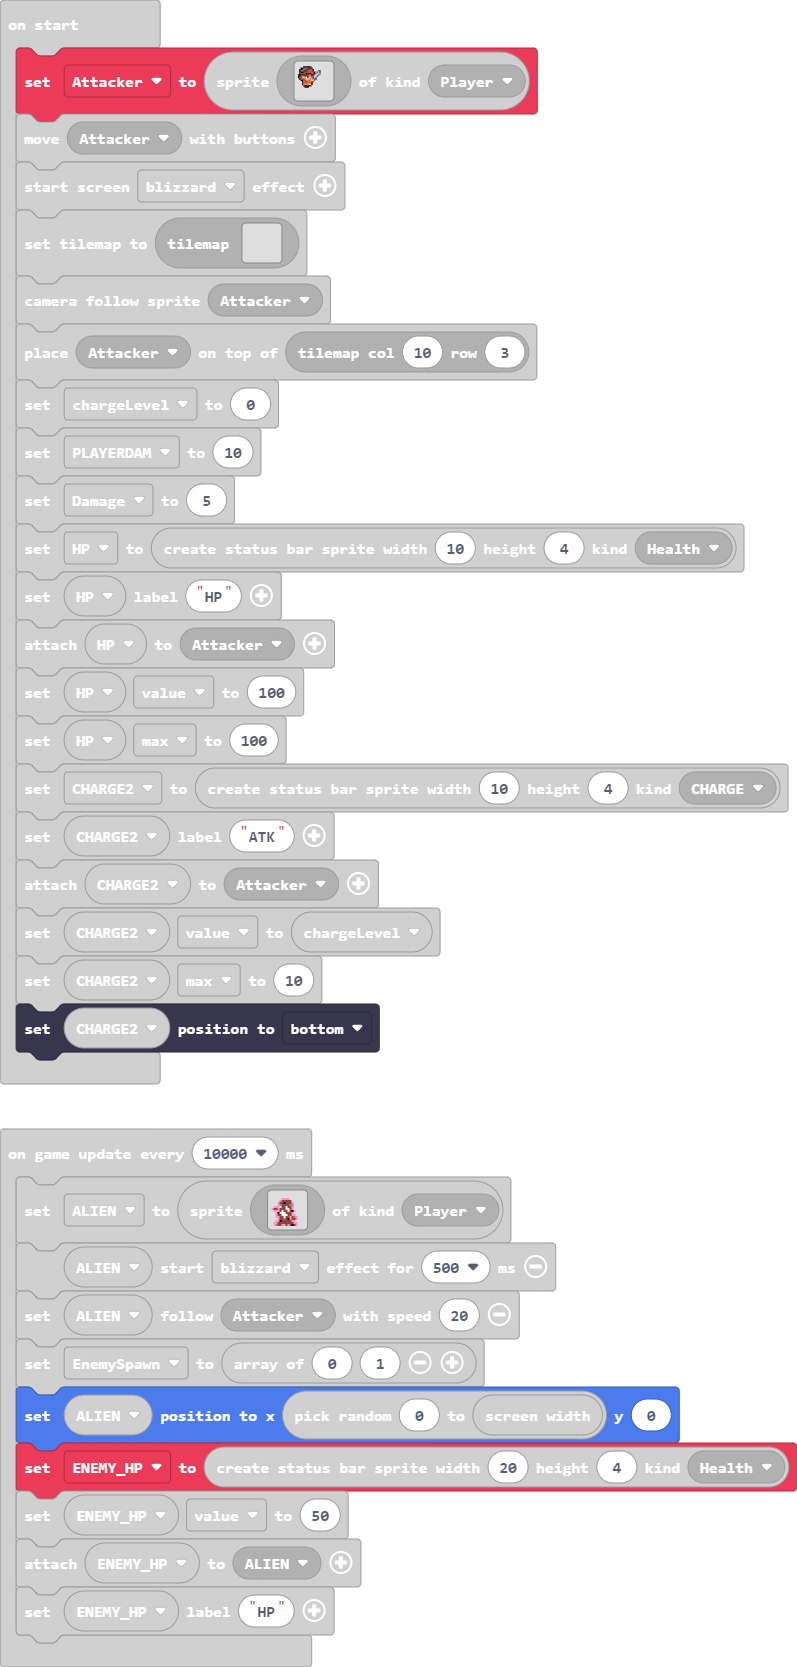
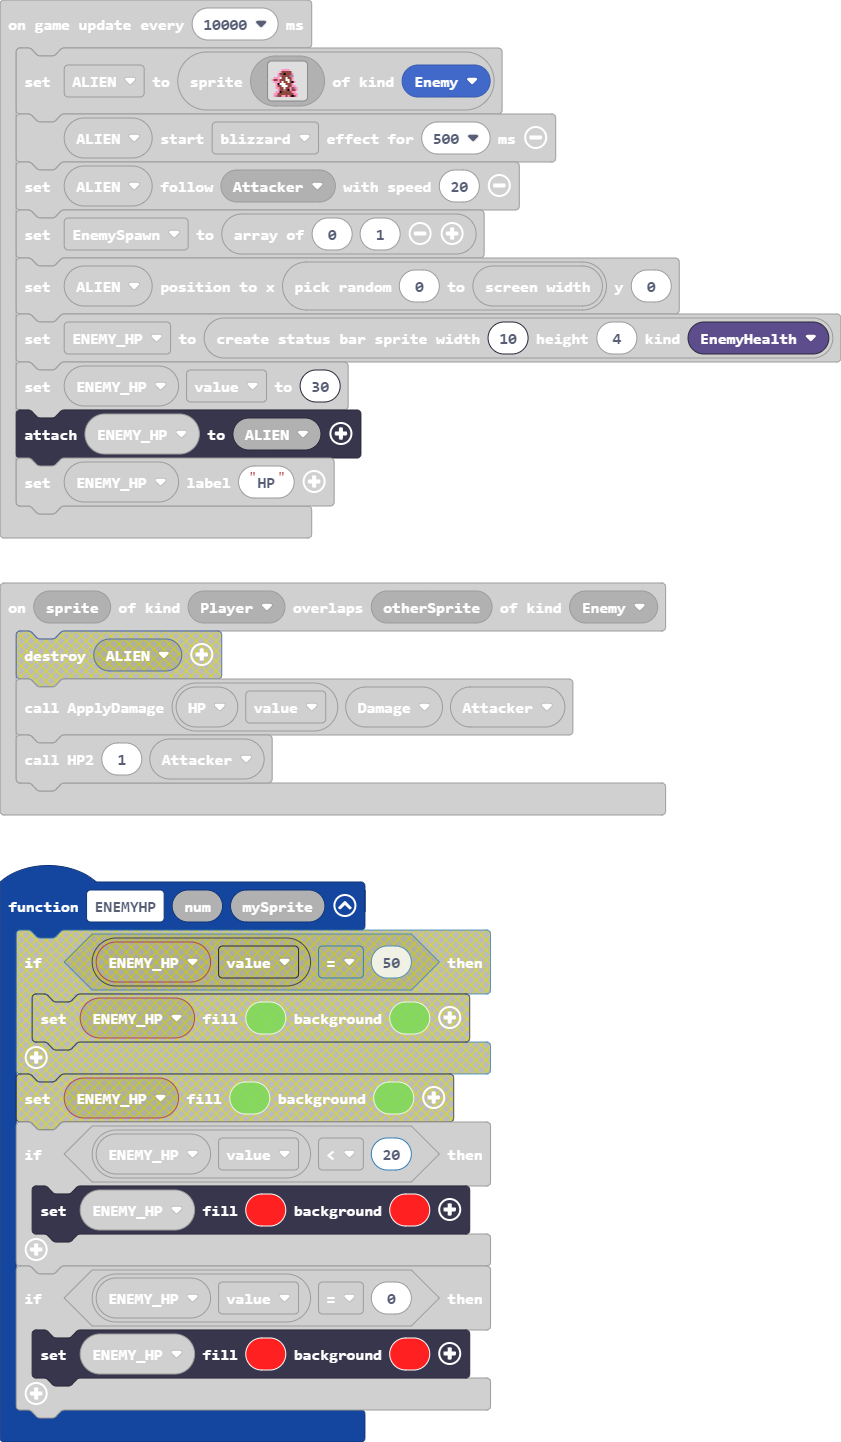
Update main.blocks, main.ts, tilemap.g.jres, tilemap.g.ts

diff --git a/tilemap.g.ts b/tilemap.g.ts
@@ -62,6 +62,25 @@ namespace myTiles {
 . . . . . . . . . . . . . . . . 
 . . . . . . . . . . . . . . . . 
 `, [myTiles.transparency16], TileScale.Sixteen);
+            case "level5":
+            case "level5":return tiles.createTilemap(hex`1000100000000000000000000000000000000000000000000000000000000000000000000000000000000000000000000000000000000000000000000000000000000000000000000000000000000000000000000000000000000000000000000000000000000000000000000000000000000000000000000000000000000000000000000000000000000000000000000000000000000000000000000000000000000000000000000000000000000000000000000000000000000000000000000000000000000000000000000000000000000000000000000000000000000000000000000000000000000000000000000000000000000000000000000000000000000000`, img`
+. . . . . . . . . . . . . . . . 
+. . . . . . . . . . . . . . . . 
+. . . . . . . . . . . . . . . . 
+. . . . . . . . . . . . . . . . 
+. . . . . . . . . . . . . . . . 
+. . . . . . . . . . . . . . . . 
+. . . . . . . . . . . . . . . . 
+. . . . . . . . . . . . . . . . 
+. . . . . . . . . . . . . . . . 
+. . . . . . . . . . . . . . . . 
+. . . . . . . . . . . . . . . . 
+. . . . . . . . . . . . . . . . 
+. . . . . . . . . . . . . . . . 
+. . . . . . . . . . . . . . . . 
+. . . . . . . . . . . . . . . . 
+. . . . . . . . . . . . . . . . 
+`, [myTiles.transparency16], TileScale.Sixteen);
             case "level1":
             case "level1":return tiles.createTilemap(hex`1000100000000000000000000000000000000000000000000000000000000000000000000000000000000000000000000000000000000000000000000000000000000000000000000000000000000000000000000000000000000000000000000000000000000000000000000000000000000000000000000000000000000000000000000000000000000000000000000000000000000000000000000000000000000000000000000000000000000000000000000000000000000000000000000000000000000000000000000000000000000000000000000000000000000000000000000000000000000000000000000000000000000000000000000000000000000000`, img`
 . . . . . . . . . . . . . . . . 

diff --git a/main.ts b/main.ts
@@ -8,11 +8,8 @@ function CHARGEVISUAL (mySprite: Sprite, num: number) {
 	
 }
 function ENEMYHP (num: number, mySprite: Sprite) {
-    if (ENEMY_HP.value == 50) {
-        ENEMY_HP.setColor(7, 7)
-    }
-    if (ENEMY_HP.value < 25) {
-        ENEMY_HP.setColor(4, 2)
+    if (ENEMY_HP.value < 20) {
+        ENEMY_HP.setColor(2, 2)
     }
     if (ENEMY_HP.value == 0) {
         ENEMY_HP.setColor(2, 2)
@@ -393,7 +390,6 @@ controller.player1.onButtonEvent(ControllerButton.Down, ControllerButtonEvent.Pr
     }
 })
 sprites.onOverlap(SpriteKind.Player, SpriteKind.Enemy, function (sprite, otherSprite) {
-    sprites.destroy(ALIEN)
     ApplyDamage(HP.value, Damage, Attacker)
     HP2(1, Attacker)
 })
@@ -468,13 +464,13 @@ game.onUpdateInterval(10000, function () {
         . . 3 3 f e e e e e 3 3 . . . . 
         . 3 3 e e e e e e e e 3 3 . . . 
         . 3 b e e 3 3 e 3 e f e 3 . . . 
-        `, SpriteKind.Player)
+        `, SpriteKind.Enemy)
     ALIEN.startEffect(effects.blizzard, 500)
     ALIEN.follow(Attacker, 20)
     EnemySpawn = [0, 1]
     ALIEN.setPosition(randint(0, scene.screenWidth()), 0)
-    ENEMY_HP = statusbars.create(20, 4, StatusBarKind.Health)
-    ENEMY_HP.value = 50
+    ENEMY_HP = statusbars.create(10, 4, StatusBarKind.EnemyHealth)
+    ENEMY_HP.value = 30
     ENEMY_HP.attachToSprite(ALIEN)
     ENEMY_HP.setLabel("HP")
 })
